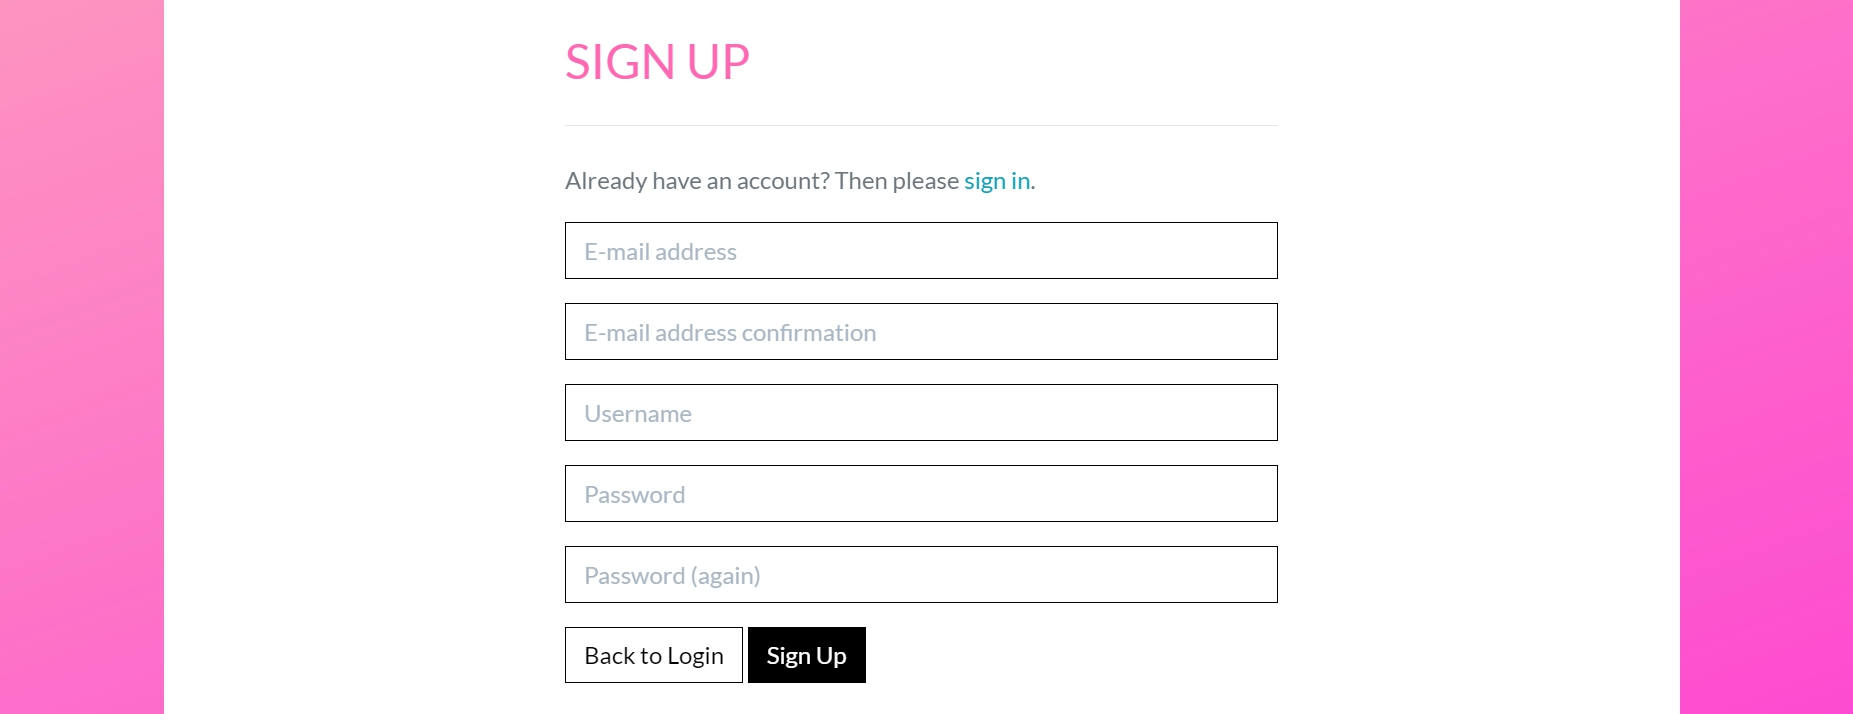
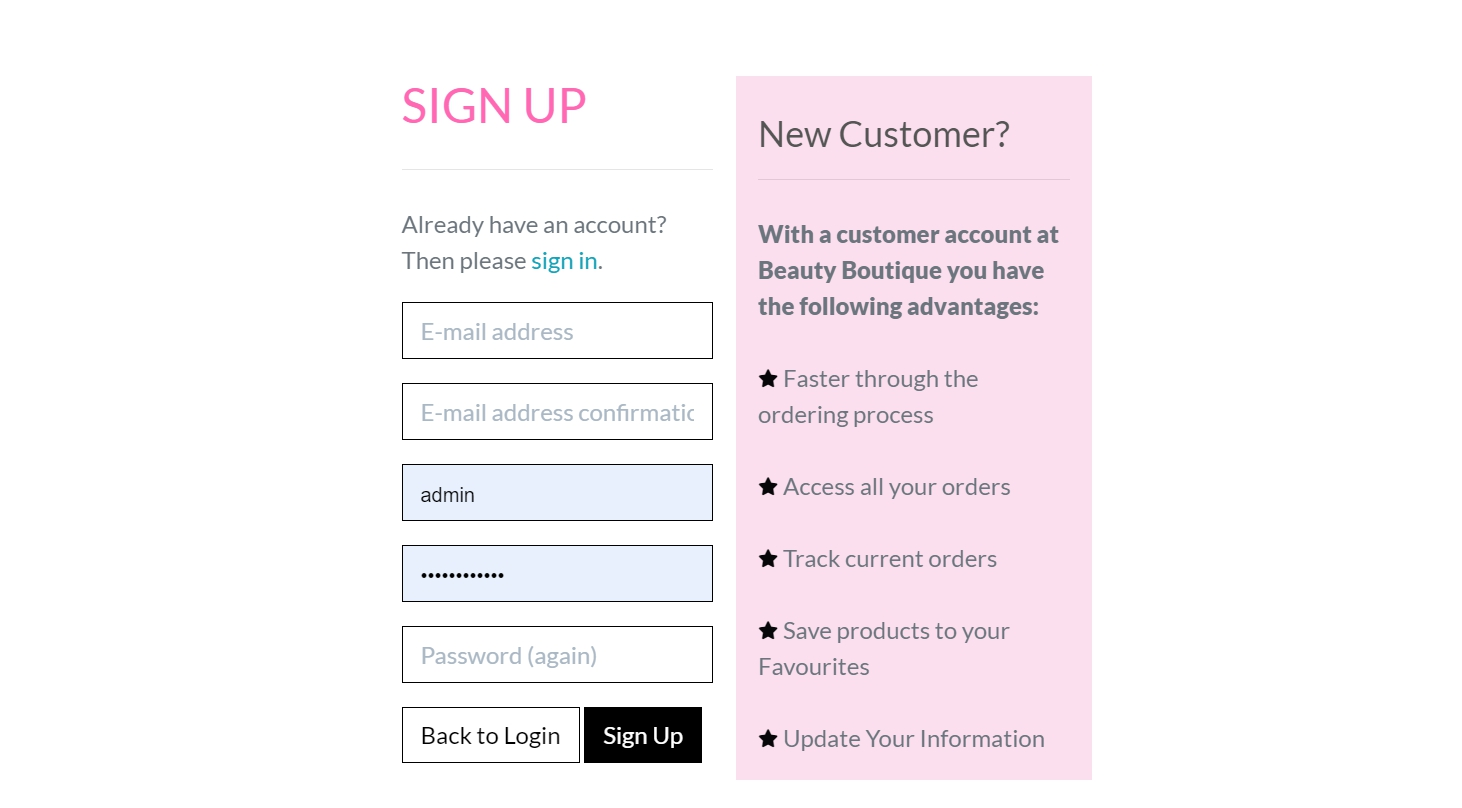
signup page modified

diff --git a/templates/allauth/account/signup.html b/templates/allauth/account/signup.html
@@ -5,20 +5,35 @@
 {% block head_title %}{% trans "Signup" %}{% endblock %}
 
 {% block inner_content %}
+<div class="row mx-auto my-auto">
+  <div class="col-6">
+    <h2 class="logo-font mb-4" style="color: hotpink;">{% trans "Sign Up" %}</h2>
+    <hr>
 
-<h2 class="logo-font mb-4" style="color: hotpink;">{% trans "Sign Up" %}</h2>
-<hr>
+    <p>{% blocktrans %}Already have an account? Then please <a href="{{ login_url }}">sign in</a>.{% endblocktrans %}
+    </p>
 
-<p>{% blocktrans %}Already have an account? Then please <a href="{{ login_url }}">sign in</a>.{% endblocktrans %}</p>
+    <form class="signup" id="signup_form" method="post" action="{% url 'account_signup' %}">
+      {% csrf_token %}
+      {{ form|crispy }}
+      {% if redirect_field_value %}
+      <input type="hidden" name="{{ redirect_field_name }}" value="{{ redirect_field_value }}" />
+      {% endif %}
+      <a class="btn btn-outline-black rounded-0" href="{% url 'account_login' %}">Back to Login</a>
+      <button type="submit">{% trans "Sign Up" %}</button>
+    </form>
+  </div>
 
-<form class="signup" id="signup_form" method="post" action="{% url 'account_signup' %}">
-  {% csrf_token %}
-  {{ form|crispy }}
-  {% if redirect_field_value %}
-  <input type="hidden" name="{{ redirect_field_name }}" value="{{ redirect_field_value }}" />
-  {% endif %}
-  <a class="btn btn-outline-black rounded-0" href="{% url 'account_login' %}">Back to Login</a>
-  <button type="submit">{% trans "Sign Up" %}</button>
-</form>
+  <div class="col-6 pt-4" style="background-color: rgba(249, 185, 219, 0.461);">
+    <h4>New Customer?</h4>
+    <hr>
+    <p><strong> With a customer account at Beauty Boutique you have the following advantages:</strong></p>
+    <p><i class="fa-solid fa-star fa-xs" style="color: #070709;"></i>  Faster through the ordering process</p>
+    <p><i class="fa-solid fa-star fa-xs" style="color: #070709;"></i>  Access all your orders</p>
+    <p><i class="fa-solid fa-star fa-xs" style="color: #070709;"></i>  Track current orders</p>
+    <p><i class="fa-solid fa-star fa-xs" style="color: #070709;"></i>  Save products to your Favourites</p>
+    <p><i class="fa-solid fa-star fa-xs" style="color: #070709;"></i>  Update Your Information</p>
+  </div>
+</div>
 
 {% endblock %}
